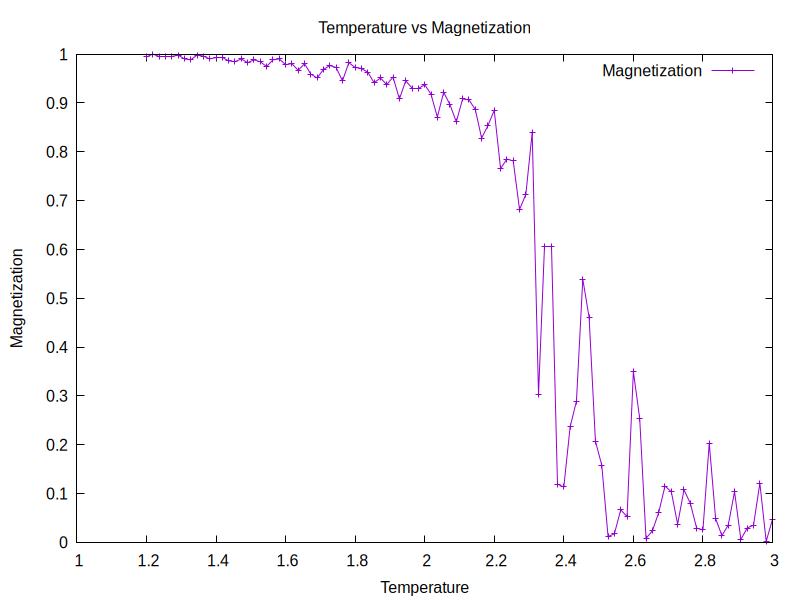
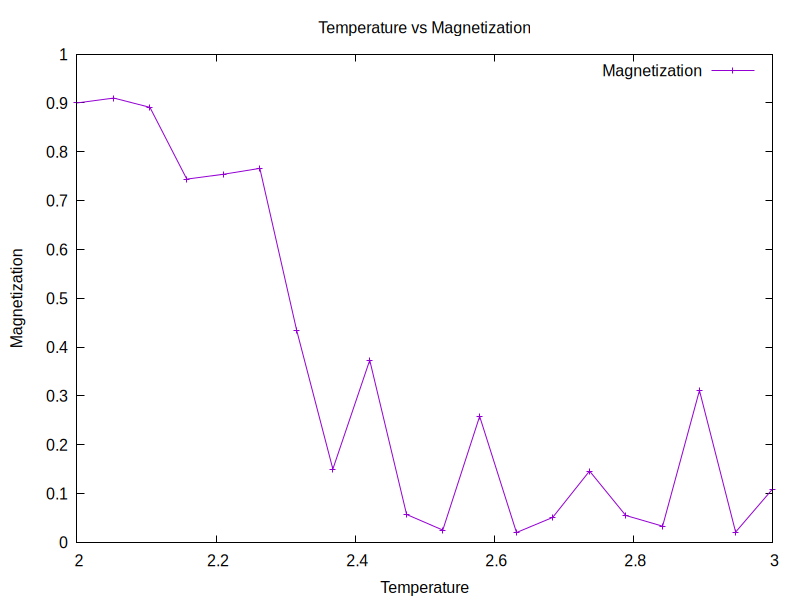
testing openacc on step function

diff --git a/cpp/main.cpp b/cpp/main.cpp
@@ -2,13 +2,16 @@
 #include <iostream>
 #include <vector>
 #include <fstream>
-
+#include<chrono>
+#ifdef _OPENACC
+#include<openacc.h>
+#endif
 int main()
 {
-    double start = 1.2;
+    double start = 2.0;
     double end = 3.0;
     // Number of elements to generate
-    size_t count = 100;
+    size_t count = 20;
 
     int n = 100;
     double J = 1.0;
@@ -20,21 +23,28 @@ int main()
 
     std::vector<int> lattice(n * n, 1);
     fill_lattice(lattice);
-    print_lattice(lattice, n);
     std::ofstream file("energy.dat");
+    int iter = 1;
+    std::cout<<"Program Started!"<<std::endl;
+    std::chrono::high_resolution_clock::time_point start_t = std::chrono::high_resolution_clock::now();
     for (auto T : Ts)
     {
         double mag;
-        for (size_t i = 0; i < 10'000; i++)
+        for (size_t i = 0; i < 10'000; ++i)
         {
             auto beta = 1.0 / T;
             step(lattice, n, J, beta);
         }
+        std::cout<<"#Iteration, "<<" T,"<<" <M>"<<std::endl;
         mag = std::accumulate(lattice.begin(), lattice.end(), 0);
-        std::cout << T << " " << std::abs(mag) / (n * n) << std::endl;
+        std::cout <<iter<<", "<<T<< ", " << std::abs(mag) / (n * n) << std::endl;
         file << T << " " << std::abs(mag) / (n * n) << std::endl;
+        iter++;
     }
-
+    std::chrono::high_resolution_clock::time_point end_t = std::chrono::high_resolution_clock::now();
+    auto elapsed = std::chrono::duration_cast<std::chrono::minutes>(end_t - start_t).count();    
+    std::cout<<"Program Finished!"<<std::endl;
+    std::cout<<"Time elapsed: "<<elapsed<<" m"<<std::endl;
     file.close();
 
     return 0;

diff --git a/cpp/include/Ising.hpp b/cpp/include/Ising.hpp
@@ -7,6 +7,9 @@
 #include <filesystem>
 #include<fstream>
 #include<iomanip>
+#ifdef _OPENACC
+#include<openacc.h>
+#endif
 
 std::mt19937_64 gen(std::random_device{}()); // Create the random number generator globally
 double get_uniform()
@@ -66,6 +69,10 @@ double get_energy(const std::vector<int> &lattice, const int &n, const double &J
 // Perform one Metropolis-Hasting step
 void step(std::vector<int> &lattice, const int &n, const double &J, const double &beta)
 {
+    #ifdef _OPENACC
+    #pragma acc parallel loop 
+    #else
+    #endif
     for (int k = 0; k < n * n; k++)
     {
         int i = get_indices(n);
@@ -111,4 +118,6 @@ void simulate(std::vector<int> &lattice, const int &n, const double &J, const do
         }
     }
 }
+
+
 #endif // ISING_H
